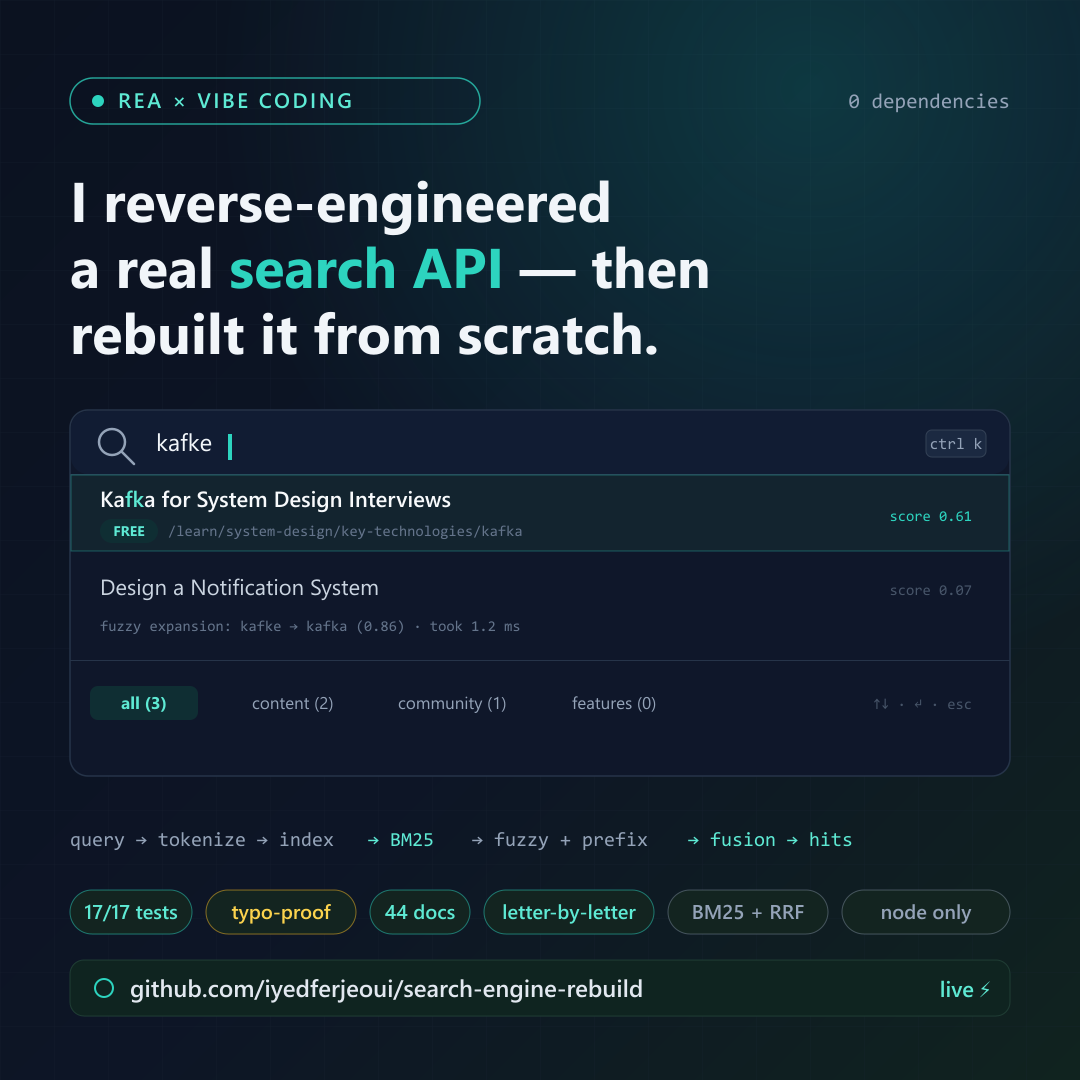
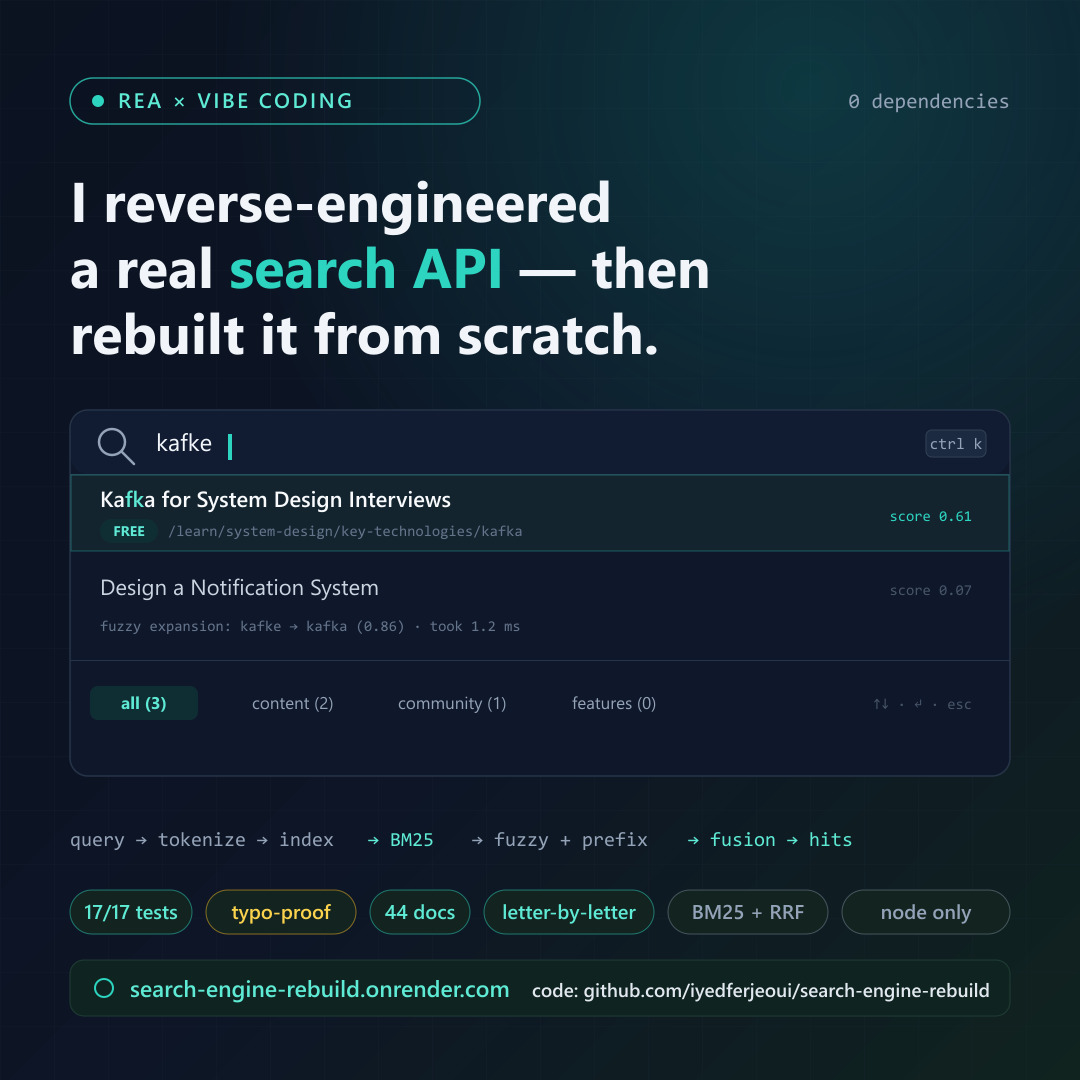
add live demo link to README + post image

Changed region(s): [[0.1222, 0.8861, 0.9167, 0.9472]]

diff --git a/README.md b/README.md
@@ -3,6 +3,12 @@
 I observed a real product's search API with [REA](https://github.com/morluto/rea) (Reverse Engineer Anything),
 then rebuilt it from scratch with an AI agent — one Node file, zero dependencies.
 
+## Demo
+
+🚀 **Live: https://search-engine-rebuild.onrender.com**
+
+(Takes ~30 s to wake on the free tier.)
+
 ```powershell
 node server.mjs          # http://127.0.0.1:8130  (press Ctrl+K in the page)
 node test/api.test.mjs   # 17/17 tests
